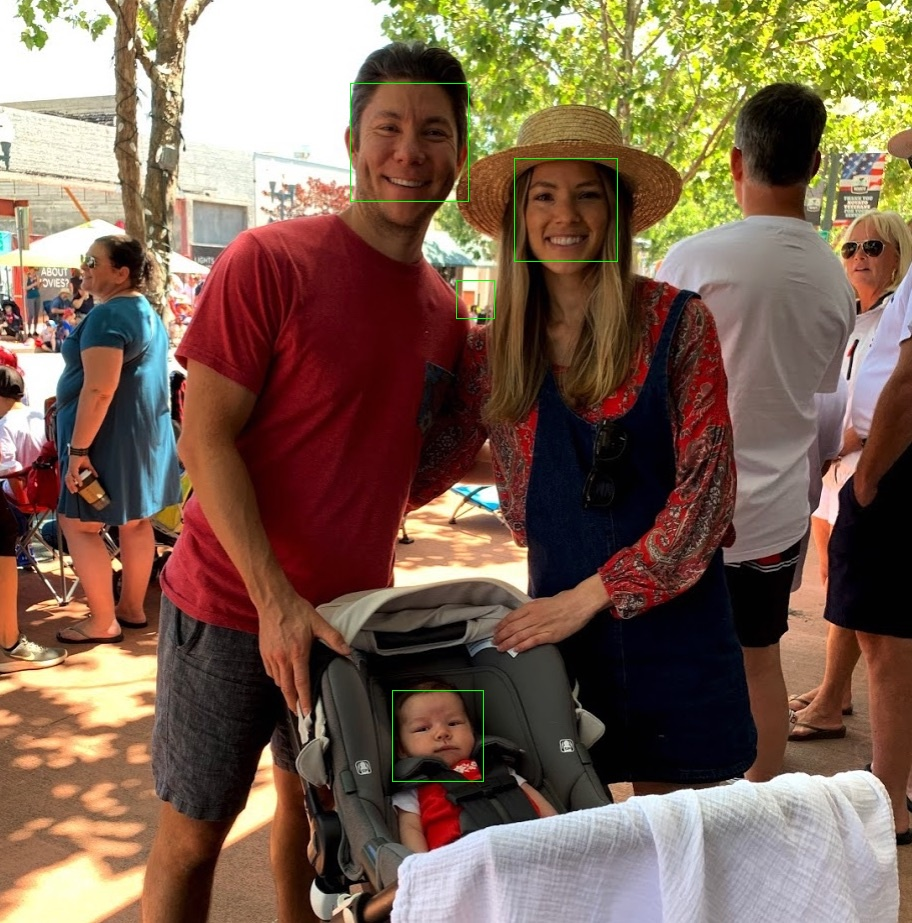
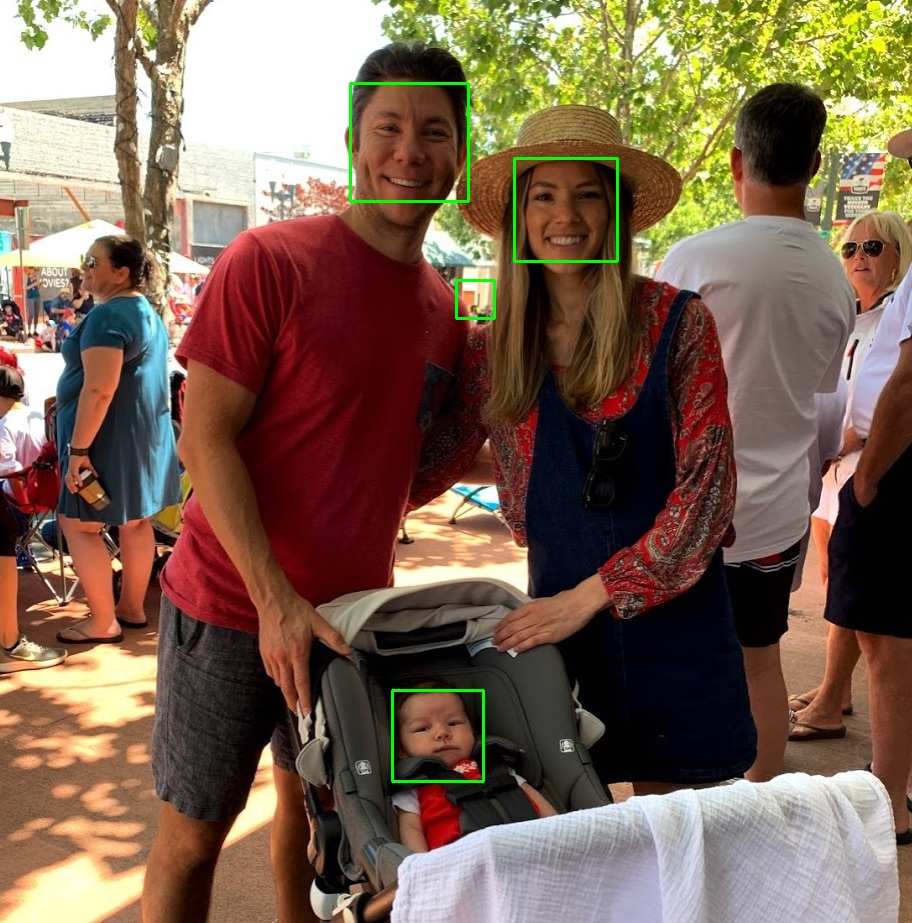
green boxy box

diff --git a/src/main/java/com/pinealpha/demos/jimage/App.java b/src/main/java/com/pinealpha/demos/jimage/App.java
@@ -70,7 +70,7 @@ public class App {
     for (Rect rect : faces.toArray()) {
       Imgproc.rectangle(image, new Point(rect.x, rect.y),
           new Point(rect.x + rect.width, rect.y + rect.height),
-          new Scalar(255, 0, 0), 2);
+          new Scalar(0, 255, 0), 2);
     }
   }
 
